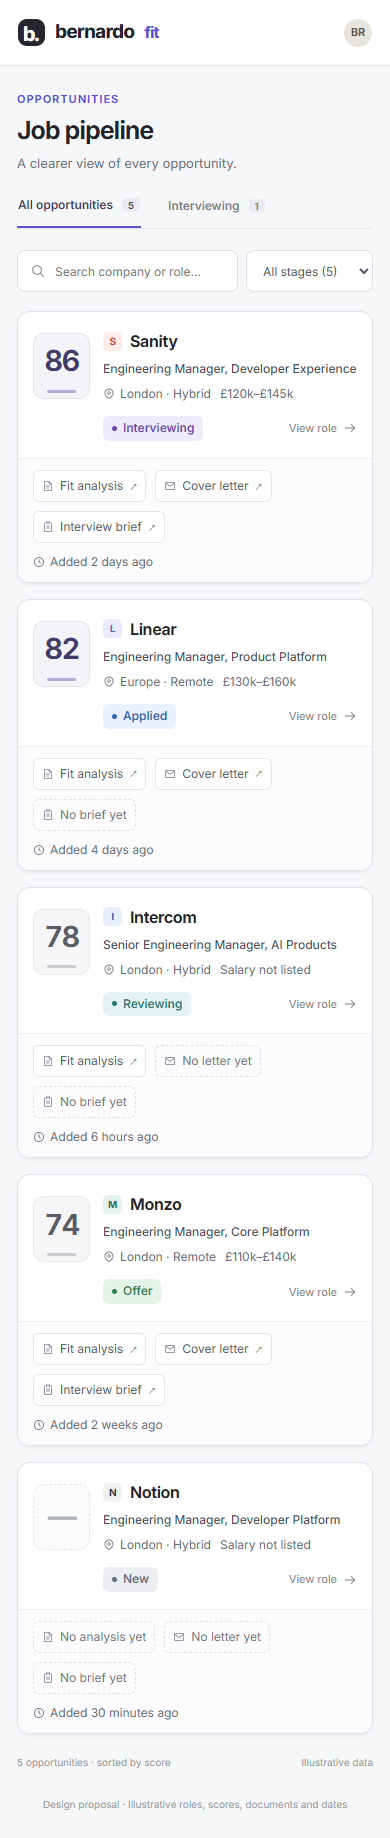
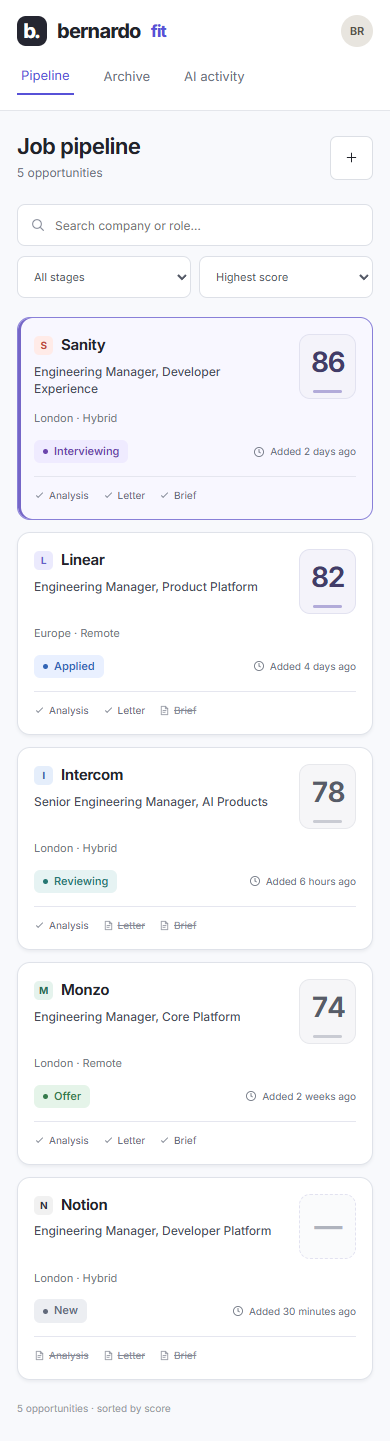
docs: revise pipeline mockups to two-pane job browsing

diff --git a/docs/admin-ux/studio-mockups/index.html b/docs/admin-ux/studio-mockups/index.html
@@ -14,6 +14,11 @@
 .added,.job-meta,.document-card small,.docs-foot,.reason p,.timeline small{color:#666d7a}
 .doc-link.missing{color:#717783}.saved-dot{font-size:11px;color:#39734d}
 .collection-switch .spacer{background:transparent;font-size:11px;padding:0}
+
+/* Email-style revision: workspace navigation above a job index and reading pane. */
+.workspace-nav{height:74px;background:white;border-bottom:1px solid var(--line);display:flex;align-items:center;gap:55px;padding:0 28px}.workspace-nav nav{display:flex;gap:26px;height:100%;align-items:stretch}.workspace-nav nav button{border:0;background:none;color:var(--muted);padding:0 4px;font-size:13px}.workspace-nav nav button.active{color:var(--primary);border-bottom:2px solid var(--primary)}.workspace-nav>.avatar{margin-left:auto}.mail-layout{display:grid;grid-template-columns:370px minmax(0,1fr);height:calc(100vh - 118px)}.capture .mail-layout{height:calc(100vh - 74px)}.job-pane{padding:24px 18px;overflow:auto;border-right:1px solid var(--line);background:#f8f9fc}.inbox-heading{display:flex;justify-content:space-between;align-items:center;margin-bottom:22px}.inbox-heading h1{font-size:22px;letter-spacing:-.6px;margin-bottom:5px}.inbox-heading .sub{font-size:12px}.toolbar{display:block}.search{display:block;max-width:none}.filter-row{display:flex;gap:8px;margin-top:10px}.filter-row select{min-width:0;width:50%;padding-right:20px;font-size:11px}.job-list{gap:12px}.job-card{display:block;width:100%;text-align:left;padding:16px;border:1px solid #dfe2e9;color:var(--ink)}.job-card.selected{border-color:#8980d8;background:#f8f7ff;box-shadow:inset 3px 0 #7566c7}.card-top{display:flex;gap:14px;align-items:flex-start}.card-copy{min-width:0;flex:1}.company-line{font-size:15px;margin-bottom:6px}.role-name{font-size:12px;display:block}.card-top .score{width:57px;height:65px;font-size:28px;flex:none}.card-location{display:block;color:#707582;font-size:11px;margin-top:11px}.card-status{display:flex;align-items:center;justify-content:space-between;gap:8px;margin-top:13px}.card-status .added{font-size:10px}.card-status .status{font-size:11px}.card-docs{display:flex;gap:14px;border-top:1px solid #e5e6ef;padding-top:11px;margin-top:13px;font-size:10px;color:#5d6574}.card-docs>span{display:flex;gap:4px;align-items:center}.card-docs svg{width:11px;height:11px}.card-docs .unavailable{color:#858995;text-decoration:line-through}.reading-pane{padding:28px 32px;overflow:auto;min-width:0}.focus-back{display:none}.role-hero{position:relative;align-items:flex-start;gap:18px;padding:24px;margin-bottom:18px;flex-wrap:wrap}.role-hero .hero-text{order:0;flex:1;min-width:180px}.role-hero>.score{order:1;width:78px;height:86px;font-size:36px}.role-hero .hero-right{order:2;width:100%;display:flex;align-items:center;justify-content:space-between;margin:0}.role-hero h1{font-size:23px}.hero-meta{gap:9px 15px;font-size:11px}.listing-bar{display:flex;align-items:center;justify-content:space-between;gap:18px;margin-bottom:28px;padding:0 2px}.listing-bar strong{font-size:12px;display:block}.listing-bar span{font-size:11px;color:var(--muted);display:block;margin-top:3px}.listing-bar a{text-decoration:none}.doc-grid{grid-template-columns:repeat(2,minmax(0,1fr))}.document-card{min-height:156px}.document-top{margin-bottom:10px}.docs-foot{gap:18px;font-size:10px}.detail-grid{grid-template-columns:1fr}.prototype-note{font-size:10px}.reviewbar{letter-spacing:0}.mobile-wrap .mail-layout{display:block;height:auto}.mobile-wrap .workspace-nav{height:auto;padding:16px;gap:12px;flex-wrap:wrap}.mobile-wrap .workspace-nav nav{order:3;width:100%;height:38px}.mobile-wrap .job-pane{border:0;padding:22px 16px}.mobile-wrap .reading-pane{display:none}.mobile-wrap .toolbar{display:block}.mobile-wrap .job-card{padding:16px}.mobile-wrap .score{width:57px;height:65px}.mobile-wrap .brand{font-size:20px}
+@media(max-width:800px){.workspace-nav{height:auto;padding:15px 17px;gap:12px;flex-wrap:wrap}.workspace-nav nav{order:3;width:100%;height:36px}.workspace-nav .brand{font-size:20px;padding:0}.mail-layout,.capture .mail-layout{display:block;height:auto}.job-pane{padding:22px 17px;border:0}.reading-pane{display:none;padding:22px 17px}.show-role .job-pane{display:none}.show-role .reading-pane{display:block}.show-role .focus-back{display:flex}.toolbar{display:block}.job-card{padding:16px}.role-hero{padding:18px}.role-hero h1{font-size:20px}.role-hero>.score{width:60px;height:70px;font-size:30px}.role-hero .hero-text{min-width:170px}.listing-bar{align-items:flex-start;flex-direction:column;gap:12px}.listing-bar .btn{width:100%}.docs-foot{display:block}.docs-foot>span+span{margin-top:8px}.reviewbar{height:auto;min-height:44px;flex-wrap:wrap;padding:8px 16px;gap:8px}.section-head .sub{display:none}}
+.mobile-preview.show-role .mobile-wrap .job-pane{display:none}.mobile-preview.show-role .mobile-wrap .reading-pane{display:block;padding:20px 16px}.mobile-preview.show-role .focus-back{display:flex}
 </style>
 </head>
 <body>
@@ -36,16 +41,17 @@ function badge(j){return '<span class="status '+j.status.toLowerCase()+'">'+j.st
 function score(j){return '<button class="score '+(j.score===null?'empty':j.score<80?'mid':'')+'" data-score="'+j.id+'" aria-label="'+(j.score===null?'No fit analysis yet':j.score+' out of 100 fit score. Open assessment')+'">'+(j.score??'—')+'</button>'}
 function brand(){return '<div class="brand"><span class="brand-mark">b.</span>bernardo<small>fit</small></div>'}
 function nav(){return '<aside class="sidebar">'+brand()+'<div><div class="side-section-label">Workspace</div><nav class="sidenav"><button class="active" data-view="pipeline">'+icon('grid')+'Pipeline<span class="count">5</span></button><button data-notice="Archive">'+icon('archive')+'Archive</button><button data-notice="AI activity & usage">'+icon('chart')+'AI activity</button></nav></div><div class="sidebar-foot"><div class="avatar">BR</div><div>Bernardo Raposo<small>Personal workspace</small></div></div></aside>'}
-function chrome(content,role=false){return '<div class="shell">'+nav()+'<main class="main"><header class="topbar"><div class="crumb">Workspace '+icon('chevron')+'<b>Pipeline</b>'+(role?icon('chevron')+'<span>'+selected.company+'</span>':'')+'</div><div class="topright"><span>Personal workspace</span><div class="avatar">BR</div></div></header><header class="mobile-brand">'+brand()+'<div class="avatar">BR</div></header><div class="content">'+content+'</div></main></div>'}
-function jobCard(j){const names=['Fit analysis','Cover letter','Interview brief'];const files=['file','letter','brief'];return '<article class="job-card"><div class="job-main">'+score(j)+'<div><button class="job-title" data-job="'+j.id+'"><span class="company-line"><span class="monogram '+j.id+'">'+j.company[0]+'</span>'+j.company+'</span><span class="role-name">'+j.role+'</span></button><div class="job-meta"><span>'+icon('location')+j.location+'</span><span>'+j.salary+'</span></div></div><div class="job-right">'+badge(j)+'<button class="open-role" data-job="'+j.id+'">View role '+icon('arrow')+'</button></div></div><footer class="job-footer"><div class="doc-links">'+names.map((name,i)=>'<button class="doc-link '+(!j.docs[i]?'missing':'')+'" '+(j.docs[i]?'data-doc="'+name+'"':'disabled')+' aria-label="'+(j.docs[i]?'Open '+name:name+' not generated')+'">'+icon(files[i])+(j.docs[i]?name:i===0?'No analysis yet':i===1?'No letter yet':'No brief yet')+(j.docs[i]?'<span class="arrow">↗</span>':'')+'</button>').join('')+'</div><time class="added" title="Illustrative relative date">'+icon('clock')+'Added '+j.age+'</time></footer></article>'}
-function pipeline(){return '<div class="page-heading"><div><div class="eyebrow">Opportunities</div><h1>Job pipeline</h1><p class="sub">A clearer view of every opportunity.</p></div><div class="heading-actions"><button class="btn" data-notice="Sort & display preferences">'+icon('settings')+'Display</button><button class="btn dark" data-notice="Add opportunity">'+icon('plus')+'Add opportunity</button></div></div><div class="collection-switch"><button class="active" data-filter="all">All opportunities <span>5</span></button><button data-filter="Interviewing">Interviewing <span>1</span></button><span class="spacer">Private workspace</span></div><div class="toolbar"><label class="search">'+icon('search')+'<input aria-label="Search jobs" placeholder="Search company or role…" id="search"><kbd>/</kbd></label><select id="filter" aria-label="Filter by stage"><option value="all">All stages (5)</option><option>Interviewing</option><option>Applied</option><option>Reviewing</option><option>Offer</option><option>New</option></select><select class="sort" id="sort" aria-label="Sort roles"><option value="score">Highest score first</option><option value="recent">Recently added</option></select></div><div class="job-list" id="job-list">'+jobs.map(jobCard).join('')+'</div><div class="list-foot"><span>5 opportunities · sorted by score</span><span>Illustrative data</span></div><p class="prototype-note">Design proposal · Illustrative roles, scores, documents and dates</p>'}
+function chrome(){return '<header class="workspace-nav">'+brand()+'<nav aria-label="Workspace"><button class="active" data-view="pipeline">Pipeline</button><button data-notice="Archive">Archive</button><button data-notice="AI activity & usage">AI activity</button></nav><div class="avatar">BR</div></header><main class="mail-layout"><aside class="job-pane" aria-label="Jobs">'+pipeline()+'</aside><section class="reading-pane" aria-label="Selected job">'+roleView()+'</section></main>'}
+function jobCard(j){return '<button class="job-card '+(selected.id===j.id?'selected':'')+'" data-job="'+j.id+'" aria-pressed="'+(selected.id===j.id)+'"><span class="card-top"><span class="card-copy"><span class="company-line"><span class="monogram '+j.id+'">'+j.company[0]+'</span>'+j.company+'</span><span class="role-name">'+j.role+'</span></span><span class="score '+(j.score===null?'empty':j.score<80?'mid':'')+'" aria-label="'+(j.score===null?'Not scored':j.score+' out of 100 fit score')+'">'+(j.score??'—')+'</span></span><span class="card-location">'+j.location+'</span><span class="card-status">'+badge(j)+'<span class="added">'+icon('clock')+'Added '+j.age+'</span></span><span class="card-docs">'+['Analysis','Letter','Brief'].map((name,i)=>'<span class="'+(!j.docs[i]?'unavailable':'')+'">'+icon(j.docs[i]?'check':'file')+name+'</span>').join('')+'</span></button>'}
+function pipeline(){return '<div class="inbox-heading"><div><h1>Job pipeline</h1><p class="sub">5 opportunities</p></div><button class="btn" data-notice="Add opportunity" aria-label="Add opportunity">'+icon('plus')+'</button></div><div class="toolbar"><label class="search">'+icon('search')+'<input aria-label="Search jobs" placeholder="Search company or role…" id="search"></label><div class="filter-row"><select id="filter" aria-label="Filter by stage"><option value="all">All stages</option><option>Interviewing</option><option>Applied</option><option>Reviewing</option><option>Offer</option><option>New</option></select><select id="sort" aria-label="Sort roles"><option value="score">Highest score</option><option value="recent">Recently added</option></select></div></div><div class="job-list" id="job-list">'+jobs.map(jobCard).join('')+'</div><div class="list-foot"><span>5 opportunities · sorted by score</span></div>'}
 function docCard(title,type,color,meta,available=true){if(!available)return '<article class="document-card"><div class="document-top"><div class="file-icon '+color+'">'+icon(type)+'</div></div><h3>'+title+'</h3><small>Not generated yet</small><button class="doc-open" data-notice="Generate '+title+'">Generate '+icon('spark')+'</button></article>';return '<article class="document-card"><div class="document-top"><div class="file-icon '+color+'">'+icon(type)+'</div><span class="saved-dot">Ready</span><button class="more" data-notice="'+title+' options" aria-label="'+title+' options">'+icon('more')+'</button></div><h3>'+title+'</h3><small>'+meta+'</small><button class="doc-open" data-doc="'+title+'">Open '+(title==='Fit analysis'?'fit page':title==='Cover letter'?'letter':title==='Interview brief'?'brief':'research')+icon('external')+'</button></article>'}
-function roleView(){return '<button class="focus-back" data-view="pipeline">'+icon('back')+'Back to pipeline</button><div class="role-hero">'+score(selected)+'<div class="hero-text"><div class="company-line"><span class="monogram '+selected.id+'">'+selected.company[0]+'</span>'+selected.company+'</div><h1>'+selected.role+'</h1><div class="hero-meta"><span>'+icon('location')+selected.location+'</span><span>'+selected.salary+'</span><span>'+icon('clock')+'Added '+selected.age+'</span></div></div><div class="hero-right">'+badge(selected)+'<button class="btn quiet" data-notice="Change stage">Change stage '+icon('settings')+'</button></div></div><div class="section-head"><h2>Documents</h2><span class="sub">Everything you need for this opportunity</span></div><div class="doc-grid">'+docCard('Fit analysis','file','blue','Saved document',selected.docs[0])+docCard('Cover letter','letter','','Saved document',selected.docs[1])+docCard('Interview brief','brief','green','Saved document',selected.docs[2])+docCard('Company research','globe','gray','Saved document',selected.docs[2])+'</div><div class="docs-foot"><span>'+icon('lock')+'Letter, brief and research are private. Only the fit page is shareable.</span><span>Versions & generation in each document menu</span></div><nav class="role-tabs" aria-label="Role sections"><button class="active" data-panel="overview">Overview</button><button data-panel="context">Role & context</button><button data-panel="activity">Activity</button></nav><div id="role-content">'+overview()+'</div><p class="prototype-note">Design proposal · Illustrative roles, scores, documents and dates</p>'}
+function roleView(){return '<button class="focus-back" data-view="pipeline">'+icon('back')+'Back to pipeline</button><div class="role-hero">'+score(selected)+'<div class="hero-text"><div class="company-line"><span class="monogram '+selected.id+'">'+selected.company[0]+'</span>'+selected.company+'</div><h1>'+selected.role+'</h1><div class="hero-meta"><span>'+icon('location')+selected.location+'</span><span>'+selected.salary+'</span><span>'+icon('clock')+'Added '+selected.age+'</span></div></div><div class="hero-right">'+badge(selected)+'<button class="btn quiet" data-notice="Change stage">Change stage '+icon('settings')+'</button></div></div><div class="listing-bar"><div><strong>Original job listing</strong><span>Check the details and apply on the employer’s site</span></div><a class="btn dark" href="https://example.com/jobs/'+selected.id+'" target="_blank" rel="noopener noreferrer" title="Illustrative URL — production uses the saved job posting URL">View listing & apply '+icon('external')+'</a></div><div class="section-head"><h2>Documents</h2><span class="sub">Everything you need for this opportunity</span></div><div class="doc-grid">'+docCard('Fit analysis','file','blue','Saved document',selected.docs[0])+docCard('Cover letter','letter','','Saved document',selected.docs[1])+docCard('Interview brief','brief','green','Saved document',selected.docs[2])+docCard('Company research','globe','gray','Saved document',selected.docs[2])+'</div><div class="docs-foot"><span>'+icon('lock')+'Letter, brief and research are private. Only the fit page is shareable.</span><span>Versions & generation in each document menu</span></div><nav class="role-tabs" aria-label="Role sections"><button class="active" data-panel="overview">Overview</button><button data-panel="context">Role & context</button><button data-panel="activity">Activity</button></nav><div id="role-content">'+overview()+'</div><p class="prototype-note">Design proposal · Illustrative roles, scores, documents and dates</p>'}
 function overview(){if(selected.id!=='sanity')return '<section class="panel"><h2>Role overview</h2><p class="sub">Assessment details and recorded activity for '+selected.company+' will appear here. The Sanity example shows the proposed populated layout.</p></section>';return '<div class="detail-grid"><section class="panel"><h2>Why this role</h2><div class="reason">'+icon('check')+'<div><strong>A strong match for your developer experience background</strong><p>Platform leadership, developer tooling and building products for technical teams.</p></div></div><div class="reason">'+icon('check')+'<div><strong>Leadership with room to stay close to the product</strong><p>Own the team’s direction while partnering with engineering and design.</p></div></div><div class="reason">'+icon('check')+'<div><strong>Location and working pattern fit</strong><p>London-based with a hybrid setup and a relevant compensation range.</p></div></div><div class="attention"><b>Worth exploring</b><br>Clarify the team’s remit and the balance between people management and hands-on work.</div></section><aside class="panel"><h2>Recent activity</h2><ol class="timeline"><li>Interview brief updated<small>3 hours ago</small></li><li>Moved to Interviewing<small>Yesterday</small></li><li>Cover letter generated<small>Yesterday</small></li><li>Added to your pipeline<small>2 days ago</small></li></ol><div class="next-step"><strong>Ready for the conversation</strong><p>Your brief and company research are ready to open.</p></div></aside></div>'}
-function show(view,push=true){currentView=view;document.body.classList.toggle('mobile-preview',view==='mobile');const html=chrome(view==='role'?roleView():pipeline(),view==='role');app.innerHTML=view==='mobile'?'<div class="mobile-wrap">'+html+'</div>':html;if(push)history.replaceState(null,'','?view='+view);wireFilters();window.scrollTo(0,0)}
+function show(view,push=true){currentView=view;document.body.classList.toggle('mobile-preview',view==='mobile');document.body.classList.toggle('show-role',view==='role');const html=chrome();app.innerHTML=view==='mobile'?'<div class="mobile-wrap">'+html+'</div>':html;if(push)history.replaceState(null,'','?view='+view);wireFilters();window.scrollTo(0,0)}
+function selectJob(id){selected=jobs.find(j=>j.id===id);document.querySelector('.reading-pane').innerHTML=roleView();document.querySelectorAll('[data-job]').forEach(b=>{const active=b.dataset.job===id;b.classList.toggle('selected',active);b.setAttribute('aria-pressed',active)});document.body.classList.add('show-role');document.querySelector('.reading-pane').scrollTop=0;}
 function wireFilters(){const search=document.getElementById('search'),filter=document.getElementById('filter'),sort=document.getElementById('sort');if(!search)return;const refresh=()=>{let shown=jobs.filter(j=>(filter.value==='all'||filter.value===j.status)&&(j.company+' '+j.role).toLowerCase().includes(search.value.toLowerCase()));if(sort.value==='recent'){const order=['notion','intercom','sanity','linear','monzo'];shown.sort((a,b)=>order.indexOf(a.id)-order.indexOf(b.id))}document.getElementById('job-list').innerHTML=shown.map(jobCard).join('')||'<div class="empty-state">No matching opportunities.</div>';document.querySelector('.list-foot span').textContent=shown.length+' opportunities · '+(sort.value==='score'?'sorted by score':'recently added')};search.oninput=refresh;filter.onchange=refresh;sort.onchange=refresh}
 function preview(title,content){const d=document.getElementById('preview');document.getElementById('preview-title').textContent=title;document.getElementById('preview-text').textContent=content;d.showModal()}
-document.addEventListener('click',e=>{const button=e.target.closest('button');if(!button)return;if(button.dataset.view)show(button.dataset.view);if(button.dataset.job){selected=jobs.find(j=>j.id===button.dataset.job);show('role')}if(button.dataset.score)preview('Assessment score', 'The large number is the existing fit score out of 100. The proposed design removes repeated “Fit” and tier labels, while keeping this accessible explanation.');if(button.dataset.doc)preview(button.dataset.doc,'This opens the saved document directly. In this design prototype it shows a placeholder; no generation or live data is involved.');if(button.dataset.notice)preview(button.dataset.notice,'This is a design preview. This control would use the existing application behavior when implemented.');if(button.dataset.filter){document.getElementById('filter').value=button.dataset.filter;document.getElementById('filter').dispatchEvent(new Event('change'));document.querySelectorAll('[data-filter]').forEach(b=>b.classList.toggle('active',b===button))}if(button.dataset.panel){document.querySelectorAll('[data-panel]').forEach(b=>b.classList.toggle('active',b===button));document.getElementById('role-content').innerHTML=button.dataset.panel==='overview'?overview():button.dataset.panel==='context'?'<section class="panel"><h2>Role & context</h2><p class="sub">The full description, posting, private notes and AI instructions belong here, in individually labelled editors.</p></section>':'<section class="panel"><h2>Activity & versions</h2><p class="sub">Available run outcomes, saved versions and recorded costs belong here. Exact history depends on the data the backend stores.</p></section>'}});
+document.addEventListener('click',e=>{const button=e.target.closest('button');if(!button)return;if(button.dataset.view)show(button.dataset.view);if(button.dataset.job){selectJob(button.dataset.job)}if(button.dataset.score)preview('Assessment score', 'The large number is the existing fit score out of 100. The proposed design removes repeated “Fit” and tier labels, while keeping this accessible explanation.');if(button.dataset.doc)preview(button.dataset.doc,'This opens the saved document directly. In this design prototype it shows a placeholder; no generation or live data is involved.');if(button.dataset.notice)preview(button.dataset.notice,'This is a design preview. This control would use the existing application behavior when implemented.');if(button.dataset.filter){document.getElementById('filter').value=button.dataset.filter;document.getElementById('filter').dispatchEvent(new Event('change'));document.querySelectorAll('[data-filter]').forEach(b=>b.classList.toggle('active',b===button))}if(button.dataset.panel){document.querySelectorAll('[data-panel]').forEach(b=>b.classList.toggle('active',b===button));document.getElementById('role-content').innerHTML=button.dataset.panel==='overview'?overview():button.dataset.panel==='context'?'<section class="panel"><h2>Role & context</h2><p class="sub">The full description, posting, private notes and AI instructions belong here, in individually labelled editors.</p></section>':'<section class="panel"><h2>Activity & versions</h2><p class="sub">Available run outcomes, saved versions and recorded costs belong here. Exact history depends on the data the backend stores.</p></section>'}});
 document.getElementById('close-preview').onclick=()=>document.getElementById('preview').close();
 if(new URLSearchParams(location.search).has('capture'))document.body.classList.add('capture');
 show(currentView,false);

diff --git a/docs/admin-ux/studio-mockups/README.md b/docs/admin-ux/studio-mockups/README.md
@@ -13,13 +13,13 @@ Run `node docs/admin-ux/studio-mockups/preview.mjs --serve` and open http://127.
 
 ## Recommended direction
 
-Use a full-width list of distinct, bordered cards with generous spacing. Each card shows a large numeric score without repeated Fit or tier labels, a company and role, a named colored stage, a row of document shortcuts and relative time added. Preserve an accessible score description. Missing documents remain visibly unavailable in the list; generation belongs to an explicit action in the focused role page.
+Use an email-style two-pane workspace: top navigation, a left job index and a right reading pane, with independent scrolling. Keep search and filters intact when selecting another job. Each whole job card is a keyboard-accessible button with selected state; place the score on the right and omit the redundant View role link. Each card shows a large numeric score without repeated Fit or tier labels, a company and role, a named colored stage, a row of document availability indicators and relative time added. Preserve an accessible score description. Missing documents remain visibly unavailable in the list; generation belongs to an explicit action in the focused role page.
 
-Opening a job shows a dedicated role view. Documents come first, ahead of overview and context sections. Keep the fit page's shareability distinct from private letter, brief and research documents. Opening an existing document never generates another one.
+Selecting a job updates the adjacent reading pane. A prominent View listing & apply link opens the saved original posting in a new tab. Prototype links use explicit example.com placeholders because the roles are illustrative; production must use the real saved source URL and show an unavailable state when absent. Documents come first, ahead of overview and context sections. Keep the fit page's shareability distinct from private letter, brief and research documents. Opening an existing document never generates another one.
 
 Stage colors: violet Interviewing, blue Applied, teal Reviewing, green Offer, slate New, rose Rejected. Retain stage names and accessible contrast: color must not carry meaning alone. Map these variants to the application's existing status taxonomy when implementing.
 
-On mobile, the score and stage remain prominent, document shortcuts wrap, and document cards use a two-column grid. Relative times should use actual pipeline creation timestamps, with exact dates available on focus/hover and through accessible text.
+On mobile, the list and reading pane become separate views with a Back to pipeline control. The score and stage remain prominent, document indicators remain visible, and document cards use a two-column grid. Relative times should use actual pipeline creation timestamps, with exact dates available on focus/hover and through accessible text.
 
 ## shadcn Studio references and implementation map
 
@@ -29,7 +29,7 @@ Reviewed the free [AdminCN repository](https://github.com/shadcnstudio/shadcn-ne
 | --- | --- | --- |
 | Statistics cards | Large score tile, clear numeric hierarchy | Card, CardContent |
 | Mail item layout | Separated job cards, metadata and timestamp row | Card, Button, Badge |
-| Sidebar and user identity | Quiet navigation and workspace identity | Sidebar, Avatar, Separator |
+| Navigation and user identity | Top navigation and workspace identity | Button, Avatar, Separator |
 | Badges | Consistent named stage colors | Badge variants |
 | User detail layouts | Focused role view with document cards first | Card, Tabs |
 | Document actions | Explicit open, version and generation actions | Button, DropdownMenu, Dialog, AlertDialog |
@@ -42,10 +42,10 @@ The HTML is original mockup code inspired by these compositions, not an installe
 
 ## Boundaries for implementation
 
-The full-width list and dedicated role view revise the earlier split-panel layout. Sorting and the sample activity timeline are proposed presentation features: use supported fields and recorded events only; do not invent history. Preserve existing dirty-form protection, document versions, generation confirmation and usage visibility. Sidebar destinations and secondary actions in this prototype show explanatory dialogs rather than implementing new features.
+The revised design restores a two-pane job browsing experience and moves global navigation to the top. Sorting and the sample activity timeline are proposed presentation features: use supported fields and recorded events only; do not invent history. Preserve existing dirty-form protection, document versions, generation confirmation and usage visibility. Sidebar destinations and secondary actions in this prototype show explanatory dialogs rather than implementing new features.
 
 Production work should use existing shadcn components, verify keyboard focus and mobile touch targets, and repeat the application's browser/axe checks. The prototype uses semantic native controls to review layout and interaction; it is not a substitute for production accessibility verification.
 
 ## Verification
 
-`preview.mjs` renders four screenshots and checks search, filtering, role navigation, document dialogs, Escape dismissal, page errors and horizontal overflow at desktop/mobile sizes. Set `PLAYWRIGHT_CHROMIUM_EXECUTABLE` to a local Chrome executable if necessary. No full application test suite is required for these isolated design artifacts.
+`preview.mjs` renders four screenshots and checks search, filtering, keyboard/card selection, preserved browsing controls, listing link targets, mobile back navigation, document dialogs, Escape dismissal, page errors and horizontal overflow at desktop/mobile sizes. Set `PLAYWRIGHT_CHROMIUM_EXECUTABLE` to a local Chrome executable if necessary. No full application test suite is required for these isolated design artifacts.
